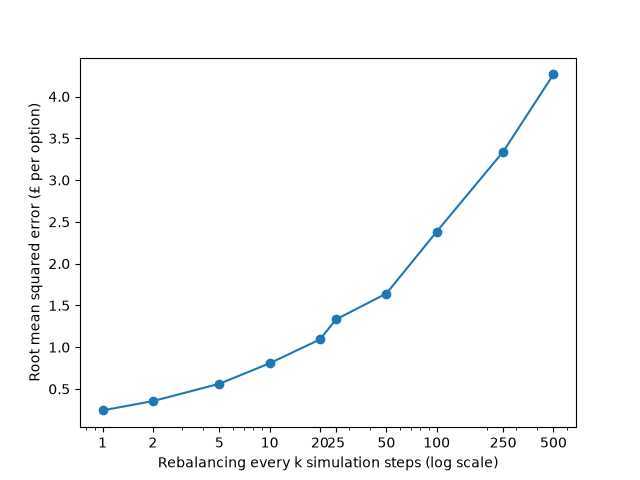
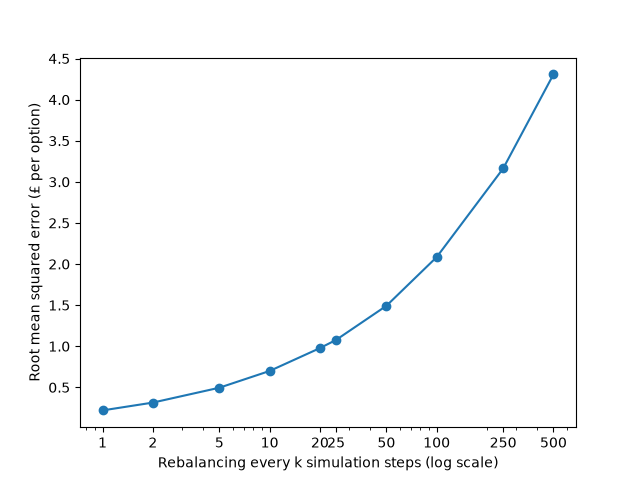
Plotted

diff --git a/main.py b/main.py
@@ -60,6 +60,7 @@ for interval in comma_separated_intervals:
         final_error = cash
         attempt_output = HedgeResult(final_error,trade_count)
         outputs[interval].append(attempt_output)
+    print(f"Interval {interval} done")
 
 results = {}
 for interval in comma_separated_intervals:
